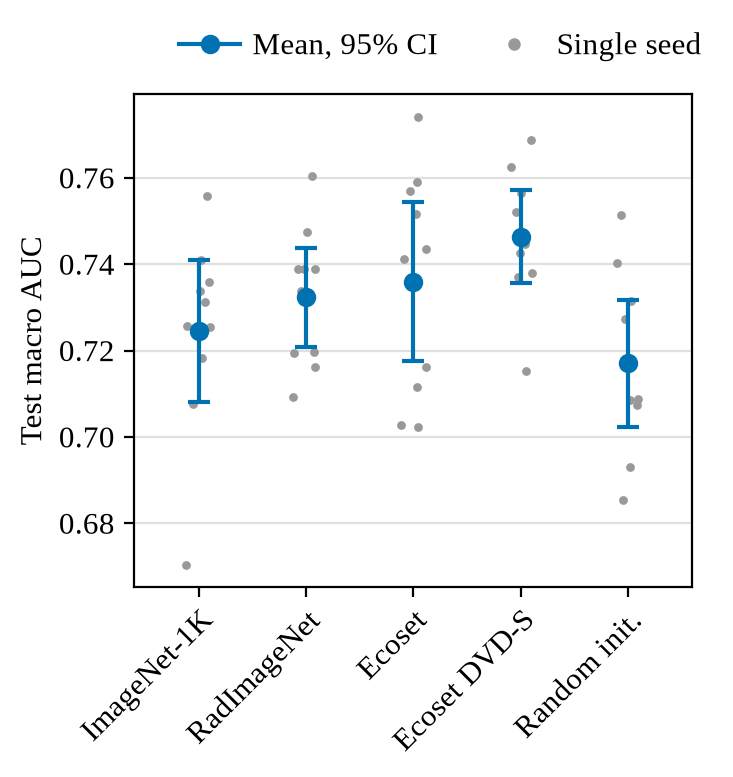
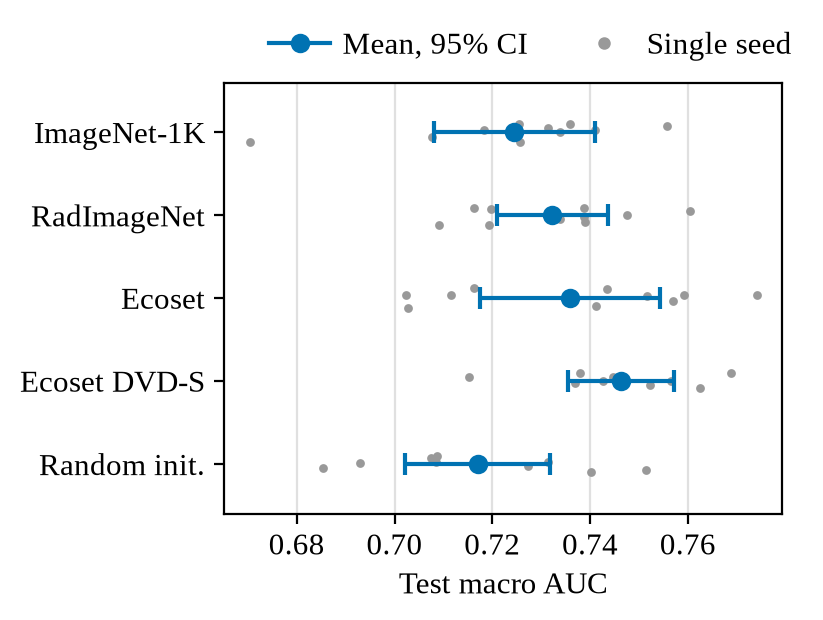
Put the sources on the y-axis of the result figure
Sources run top to bottom in the survey's order, with the test metric along the
x-axis, so the names read horizontally instead of at an angle.

diff --git a/intuitions/figures.py b/intuitions/figures.py
@@ -66,21 +66,21 @@ def ci95_half_width(values):
 def plot(per_seed, metric):
     """Call inside plt.rc_context(STYLE), which must also cover saving."""
     sources = list(per_seed)
-    x = np.arange(len(sources))
-    fig, ax = plt.subplots(figsize=(3.6, 3.2))
-    ax.grid(axis="y", color=GRID, linewidth=0.8)
+    y = np.arange(len(sources))[::-1]  # first source on top
+    fig, ax = plt.subplots(figsize=(3.6, 2.8))
+    ax.grid(axis="x", color=GRID, linewidth=0.8)
     ax.set_axisbelow(True)
     rng = np.random.default_rng(0)
-    for xi, source in zip(x, sources):
+    for yi, source in zip(y, sources):
         values = per_seed[source][1]
-        ax.scatter(xi + rng.uniform(-0.12, 0.12, size=len(values)), values, s=10, color=GREY, linewidths=0,
+        ax.scatter(values, yi + rng.uniform(-0.12, 0.12, size=len(values)), s=10, color=GREY, linewidths=0,
                    zorder=1)
-        ax.errorbar(xi, values.mean(), yerr=ci95_half_width(values), fmt="o", color=BLUE, markersize=6,
+        ax.errorbar(values.mean(), yi, xerr=ci95_half_width(values), fmt="o", color=BLUE, markersize=6,
                     elinewidth=1.5, capsize=4, capthick=1.5, zorder=3)
-    ax.set_xticks(x, [SOURCE_NAMES[s] for s in sources], rotation=45, ha="right", rotation_mode="anchor")
-    ax.set_xlim(-0.6, len(sources) - 0.4)
-    ax.set_ylabel(METRIC_NAMES.get(metric, metric))
-    ax.yaxis.set_major_formatter(FormatStrFormatter("%.2f"))
+    ax.set_yticks(y, [SOURCE_NAMES[s] for s in sources])
+    ax.set_ylim(-0.6, len(sources) - 0.4)
+    ax.set_xlabel(METRIC_NAMES.get(metric, metric))
+    ax.xaxis.set_major_formatter(FormatStrFormatter("%.2f"))
     handles = [Line2D([], [], color=BLUE, marker="o", markersize=6, linewidth=1.5, label="Mean, 95% CI"),
                Line2D([], [], color=GREY, marker="o", markersize=3.5, linewidth=0, label="Single seed")]
     fig.legend(handles=handles, loc="upper center", ncol=2, bbox_to_anchor=(0.55, 1.02), handletextpad=0.4,
